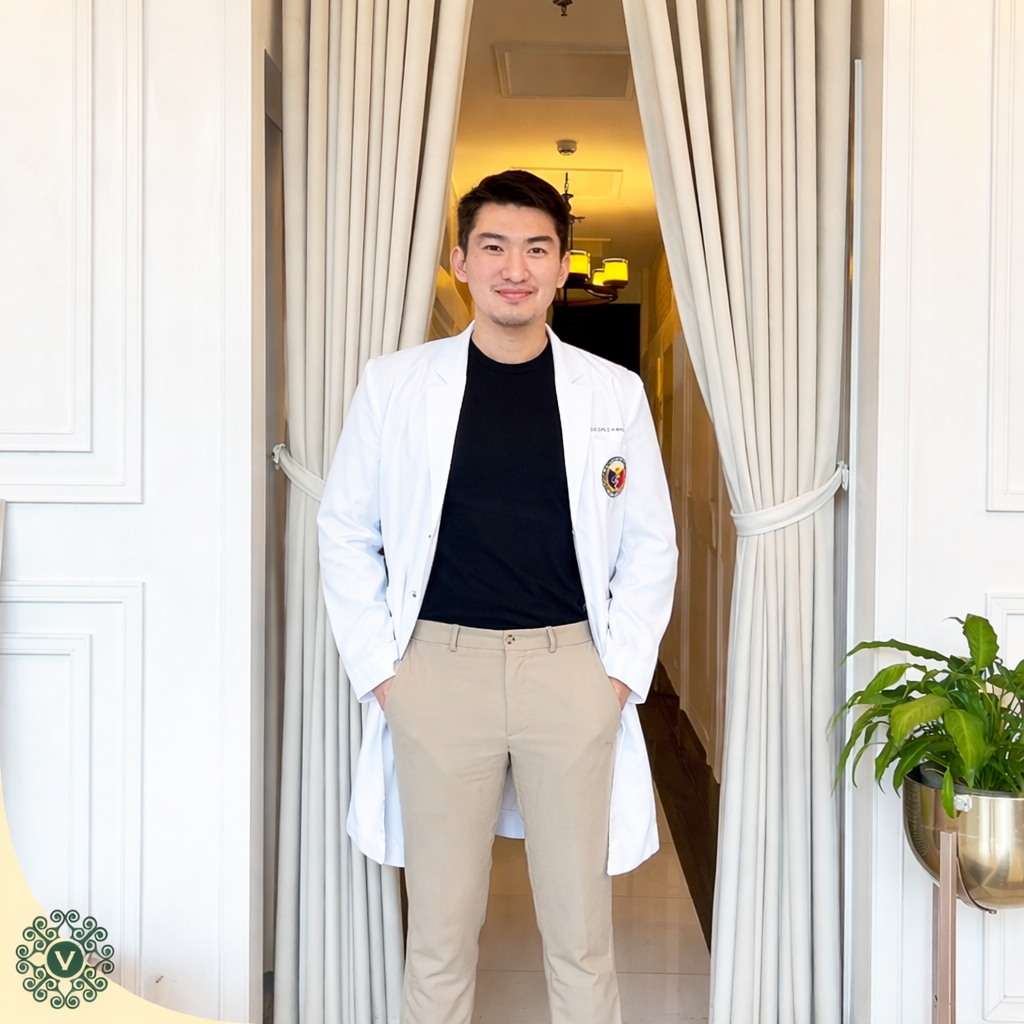
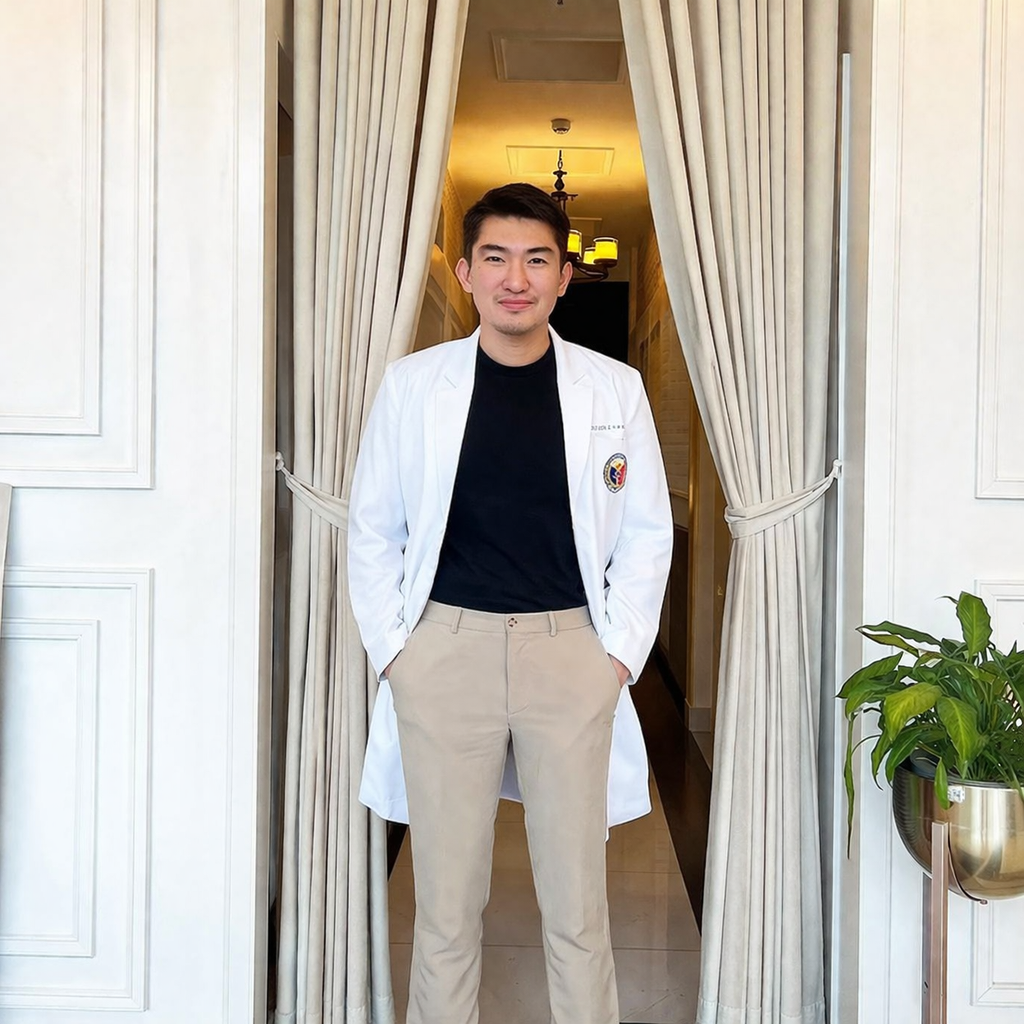
Update - Fixes

diff --git a/vivrecares-frontend/src/pages/LandingPage.jsx b/vivrecares-frontend/src/pages/LandingPage.jsx
@@ -1,8 +1,14 @@
 import { useNavigate, Link } from 'react-router-dom';
 import { useState, useEffect } from 'react';
 import clinicImage from '../assets/VIVREFRONT (3).png';
-// TODO: move to src/assets/drjc.png and import drJCImage from '../assets/drjc.png'
+import drJCImage from '../assets/drjc.png';
 import logoBlack from '../assets/vivre-black.png';
+import igFacelift101 from '../assets/ig-facelift-101.png';
+import igPigmentation from '../assets/ig-pigmentation.png';
+import igStartWithTheBasics from '../assets/ig-start-with-the-basics.png';
+import igForeheadBotox from '../assets/ig-forehead-botox.png';
+import igPatientReview from '../assets/ig-patient-review.png';
+import igHikoNoselift from '../assets/ig-hiko-noselift.png';
 import LoginModal from '../components/LoginModal';
 import NotificationBell from '../components/NotificationBell';
 import ProfileAvatar from '../components/ProfileAvatar';
@@ -65,6 +71,22 @@ const LandingPage = () => {
     return () => document.removeEventListener('click', handler);
   }, [isMobileMenuOpen]);
 
+  /* ── Lock page scroll while mobile menu is open ─────────────── */
+  useEffect(() => {
+    const previousOverflow = document.body.style.overflow;
+    const previousTouchAction = document.body.style.touchAction;
+
+    if (isMobileMenuOpen) {
+      document.body.style.overflow = 'hidden';
+      document.body.style.touchAction = 'none';
+    }
+
+    return () => {
+      document.body.style.overflow = previousOverflow;
+      document.body.style.touchAction = previousTouchAction;
+    };
+  }, [isMobileMenuOpen]);
+
   /* ── Booking logic (unchanged) ───────────────────────────────── */
   const handleBookingClick = () => {
     if (user) {
@@ -94,6 +116,51 @@ const LandingPage = () => {
   };
 
   const NAV_LINKS = [['home','Home'],['services','Services'],['clinics','Clinics'],['contact','Contact Us']];
+  const INSTAGRAM_PROFILE_URL = 'https://www.instagram.com/thevivreclinic/';
+  const INSTAGRAM_POSTS = [
+    {
+      title: 'Facelift 101',
+      description: 'A quick primer on facelift-focused care and what patients should know before treatment.',
+      accent: '#d9c8ef',
+      image: igFacelift101,
+      href: 'https://www.instagram.com/p/DVQFwJLkzGG/?img_index=1',
+    },
+    {
+      title: 'What Is Pigmentation?',
+      description: 'An easy-to-understand explainer on pigmentation and the common causes behind dark spots.',
+      accent: '#ead46b',
+      image: igPigmentation,
+      href: 'https://www.instagram.com/p/DV0onRcEyKB/?img_index=1',
+    },
+    {
+      title: 'Start With The Basics',
+      description: 'Simple essentials and foundational treatments that support a healthy natural glow.',
+      accent: '#d1b017',
+      image: igStartWithTheBasics,
+      href: 'https://www.instagram.com/p/DOfxPhyEpa4/?img_index=1',
+    },
+    {
+      title: 'Forehead Botox',
+      description: 'A short treatment highlight featuring professionally performed forehead botox care.',
+      accent: '#4f6377',
+      image: igForeheadBotox,
+      href: 'https://www.instagram.com/p/DNepXTMhm7T/',
+    },
+    {
+      title: 'Patient Review',
+      description: 'A testimonial post showcasing the patient experience and Vivre’s value-focused treatments.',
+      accent: '#e8d7aa',
+      image: igPatientReview,
+      href: 'https://www.instagram.com/p/DIiJM5rhRKL/?img_index=1',
+    },
+    {
+      title: 'HIKO Nose Lift',
+      description: 'A before-and-after look at Vivre’s non-surgical HIKO noselift results.',
+      accent: '#5f4f43',
+      image: igHikoNoselift,
+      href: 'https://www.instagram.com/p/DHk_UUyvtBn/',
+    },
+  ];
 
   /* ─────────────────────────────────────────────────────────────── */
   return (
@@ -202,7 +269,7 @@ const LandingPage = () => {
       {/* Mobile drawer */}
       {isMobileMenuOpen && (
         <div
-          className="md:hidden fixed top-16 left-0 right-0 z-40 px-6 py-6 flex flex-col gap-5"
+          className="md:hidden fixed top-16 left-0 right-0 bottom-0 z-40 px-6 py-6 flex flex-col gap-5 overflow-y-auto"
           style={{ background: 'rgba(250,249,246,0.98)', backdropFilter:'blur(16px)', borderBottom:`1px solid rgba(201,162,39,.15)`, animation:'vivreFadeDown .2s ease' }}
           onClick={e => e.stopPropagation()}
         >
@@ -344,7 +411,7 @@ const LandingPage = () => {
             <div className="absolute top-8 -left-3 md:-left-5 w-0.5 rounded-sm"
               style={{ height:'calc(100% - 64px)', background:`linear-gradient(to bottom, ${C.gold}, transparent)` }}/>
             <div className="overflow-hidden rounded-sm" style={{ boxShadow:`16px 16px 0 ${C.cream2}` }}>
-              <img src={DRJC_SRC} alt="Dr. JC Masangkay" className="w-full block object-cover object-top"/>
+              <img src={drJCImage} alt="Dr. JC Masangkay" className="w-full block object-cover object-top"/>
             </div>
             {/* Credential chip */}
             <div className="absolute -bottom-6 -right-4 md:-right-6 px-5 py-4"
@@ -496,6 +563,78 @@ const LandingPage = () => {
       </section>
 
       {/* ════════════════════════════════════════════════════
+          INSTAGRAM
+      ════════════════════════════════════════════════════ */}
+      <section className="px-5 py-16 sm:px-10 md:px-20 md:py-24" style={{ background:C.cream }}>
+        <div className="flex flex-col md:flex-row md:items-end md:justify-between gap-6 mb-10 md:mb-14">
+          <div>
+            <Eyebrow color={C.gold}>Latest On Instagram</Eyebrow>
+            <h2 className="font-light mb-3" style={{ fontFamily:C.serif, fontSize:'clamp(28px,4vw,40px)', color:C.charcoal }}>
+              Clinic Updates & Highlights
+            </h2>
+            <p className="text-[14px] md:text-[15px] font-light leading-relaxed max-w-2xl" style={{ color:C.muted }}>
+              Browse recent treatment highlights, skin education posts, and patient-centered updates from Vivre Medical.
+            </p>
+          </div>
+
+          <a
+            href={INSTAGRAM_PROFILE_URL}
+            target="_blank"
+            rel="noreferrer"
+            className="inline-flex items-center justify-center px-6 py-3 text-[10px] md:text-[11px] font-semibold tracking-[.18em] uppercase border-0 cursor-pointer transition-all duration-300"
+            style={{ background:C.charcoal, color:C.gold, fontFamily:C.sans }}
+          >
+            Follow @thevivreclinic
+          </a>
+        </div>
+
+        <div className="grid grid-cols-1 sm:grid-cols-2 xl:grid-cols-3 gap-4 md:gap-5">
+          {INSTAGRAM_POSTS.map(({ title, description, accent, image, href }) => (
+            <a
+              key={href}
+              href={href}
+              target="_blank"
+              rel="noreferrer"
+              className="group block transition-all duration-300"
+              style={{ textDecoration:'none' }}
+            >
+              <div
+                className="h-full flex flex-col justify-between p-6 md:p-7 rounded-[28px] border"
+                style={{
+                  background:`linear-gradient(160deg, ${accent} 0%, #ffffff 72%)`,
+                  borderColor:'rgba(201,162,39,.18)',
+                  boxShadow:'0 10px 30px rgba(45,42,38,.05)',
+                }}
+              >
+                <div className="mb-6 overflow-hidden rounded-[22px]" style={{ boxShadow:'0 10px 24px rgba(45,42,38,.08)' }}>
+                  <img
+                    src={image}
+                    alt={title}
+                    className="w-full aspect-[4/5] object-cover"
+                  />
+                </div>
+
+                <div>
+                  <div className="text-[11px] md:text-[12px] font-medium tracking-[.16em] uppercase mb-3" style={{ color:C.charcoal }}>
+                    Instagram Post
+                  </div>
+                  <div className="font-light mb-3 leading-tight" style={{ fontFamily:C.serif, fontSize:'clamp(26px,3vw,34px)', color:C.charcoal }}>
+                    {title}
+                  </div>
+                  <p className="text-[14px] md:text-[15px] font-light leading-relaxed mb-6" style={{ color:'rgba(45,42,38,.74)' }}>
+                    {description}
+                  </p>
+                  <div className="text-[11px] md:text-[12px] font-semibold tracking-[.14em] uppercase" style={{ color:C.charcoal }}>
+                    View on Instagram →
+                  </div>
+                </div>
+              </div>
+            </a>
+          ))}
+        </div>
+      </section>
+
+      {/* ════════════════════════════════════════════════════
           CTA + FOOTER
       ════════════════════════════════════════════════════ */}
       <section id="contact" className="px-5 py-16 sm:px-10 md:px-20 md:py-24 text-center" style={{ background:C.cream2 }}>
@@ -520,7 +659,7 @@ const LandingPage = () => {
           {[
             { label:'Valenzuela', value:'(0917) 558 4873 · Closed Mon & Tue' },
             { label:'MOA Shore',  value:'(02) 8255 5010 / (0917) 148 4873 · Closed Mon' },
-            { label:'Email',     value:'hello@vivre.ph' },
+            { label:'Facebook',     value:'VIVRE by Dr. JC Masangkay' },
             { label:'Instagram', value:'@thevivreclinic' },
             { label:'Sunday Hours', value:'Open on Sunday · 10AM – 8PM' },
           ].map(({ label, value }) => (
